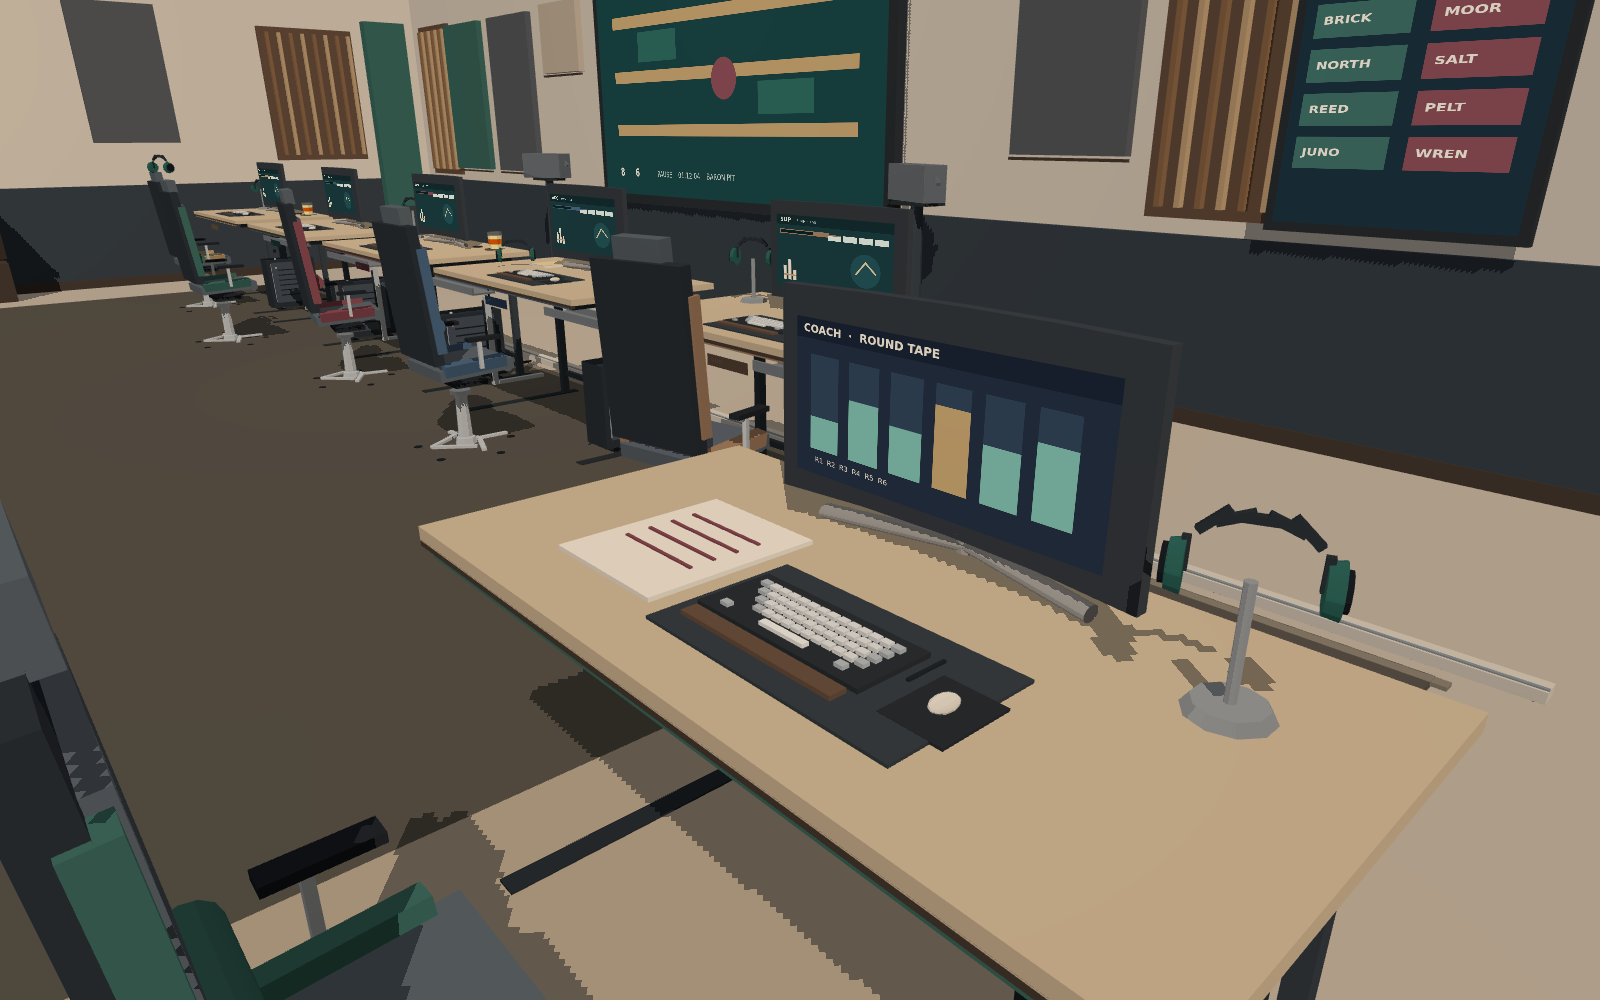
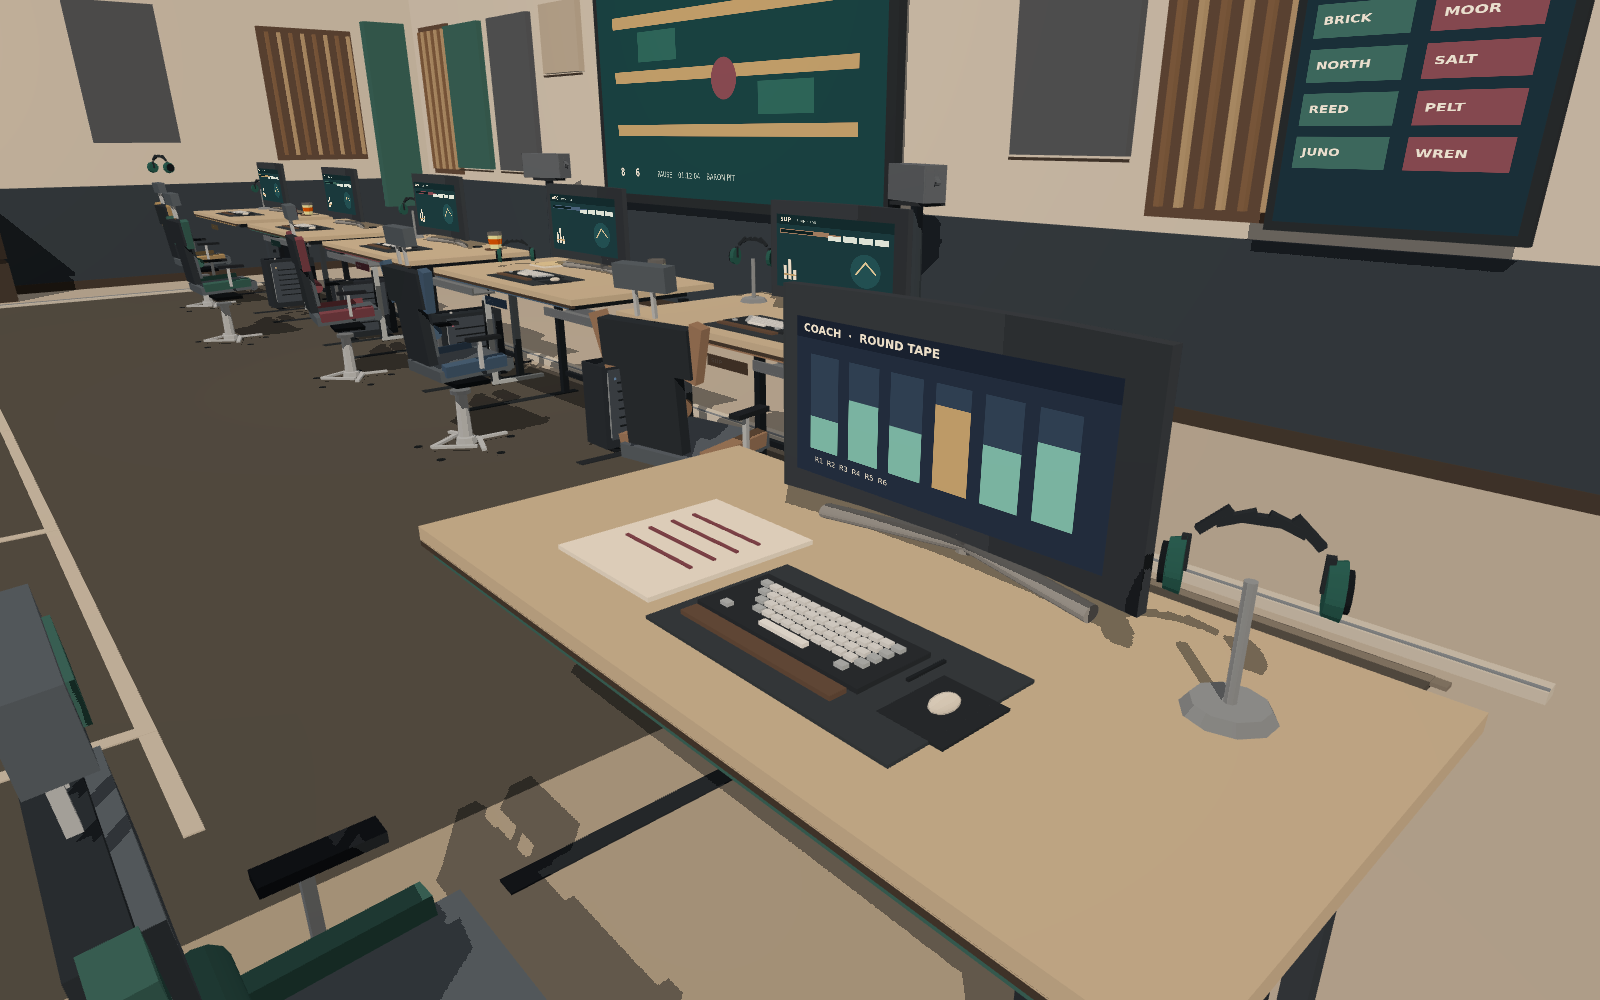
Shape the chair backs and mark the open pit floor.
Shoulder wings and a posted headrest break the rear silhouette. The daylight shadow map is fitted to the pit, and tape plus a floor raceway cross the carpet without closing the aisle.

diff --git a/experiments/indoor-20261113/esports-room/esports.js b/experiments/indoor-20261113/esports-room/esports.js
@@ -357,13 +357,20 @@ function gamingChair(g, x, z, yaw, accent, headsetOn) {
   back.position.set(0, 0.44, -0.15);
   back.rotation.x = -0.08;
   grp.add(back);
-  addBox(back, 0.38, 0.58, 0.045, shell, 0, 0.3, 0);
-  addBox(back, 0.3, 0.46, 0.028, cushion, 0, 0.28, 0.03);
-  addBox(back, 0.04, 0.44, 0.04, bolster, -0.18, 0.28, 0.02);
-  addBox(back, 0.04, 0.44, 0.04, bolster, 0.18, 0.28, 0.02);
-  const lumbar = addCyl(back, 0.035, 0.035, 0.24, bolster, 0, 0.16, 0.05, 12);
+  addBox(back, 0.24, 0.26, 0.04, shell, 0, 0.13, 0);
+  addBox(back, 0.38, 0.15, 0.046, shell, 0, 0.33, 0);
+  const leftWing = addBox(back, 0.05, 0.18, 0.038, bolster, -0.195, 0.33, 0.008);
+  leftWing.rotation.z = 0.26;
+  const rightWing = addBox(back, 0.05, 0.18, 0.038, bolster, 0.195, 0.33, 0.008);
+  rightWing.rotation.z = -0.26;
+  addBox(back, 0.2, 0.22, 0.024, cushion, 0, 0.14, 0.028);
+  addBox(back, 0.3, 0.11, 0.024, cushion, 0, 0.33, 0.03);
+  const lumbar = addCyl(back, 0.03, 0.03, 0.18, bolster, 0, 0.13, 0.046, 12);
   lumbar.rotation.z = Math.PI / 2;
-  addBox(back, 0.2, 0.075, 0.05, cushion, 0, 0.62, 0.02);
+  addBox(back, 0.012, 0.08, 0.012, metal, -0.038, 0.46, 0.008);
+  addBox(back, 0.012, 0.08, 0.012, metal, 0.038, 0.46, 0.008);
+  addBox(back, 0.22, 0.075, 0.048, cushion, 0, 0.54, 0.016);
+  addBox(back, 0.14, 0.04, 0.016, bolster, 0, 0.54, 0.038);
 
   for (const sx of [-1, 1]) {
     addBox(grp, 0.016, 0.12, 0.016, metal, sx * 0.22, 0.48, 0.02);
@@ -627,6 +634,32 @@ function raceway(g, layout) {
   for (let i = 0; i < 4; i++) {
     addBox(g, 0.03, 0.012, 0.012, toon('#1c2228'), -5.66 + i * 0.06, 0.07, z + 0.02);
   }
+  const frontZ = 1.16;
+  const sideX = -5.52;
+  const endX = Math.max(...xs) + 0.4;
+  addBox(g, 0.07, 0.032, frontZ - z, trunk, sideX, 0.024, (frontZ + z) / 2);
+  addBox(g, endX - sideX, 0.032, 0.07, trunk, (sideX + endX) / 2, 0.024, frontZ);
+  const seam = toon('#8d96a0');
+  const sideSeam = addBox(g, 0.012, 0.006, frontZ - z - 0.04, seam, sideX, 0.042, (frontZ + z) / 2);
+  sideSeam.castShadow = false;
+  const frontSeam = addBox(g, endX - sideX - 0.04, 0.006, 0.012, seam, (sideX + endX) / 2, 0.042, frontZ);
+  frontSeam.castShadow = false;
+  addBox(g, 0.11, 0.018, 0.09, toon('#3c4650'), sideX, 0.044, 0.35);
+  addBox(g, 0.12, 0.018, 0.09, toon('#3c4650'), 0.9, 0.044, frontZ);
+}
+
+function pitMarks(g, layout) {
+  const xs = layout.build.stations.map((st) => st.x);
+  const x0 = Math.min(...xs) - 0.5;
+  const x1 = Math.max(...xs) + 0.5;
+  const mid = (x0 + x1) / 2;
+  const tape = toon('#d4cbbd');
+  for (const z of [0.18, 0.72]) {
+    quiet(addBox(g, x1 - x0, 0.004, 0.04, tape, mid, 0.026, z));
+  }
+  for (const x of xs) {
+    quiet(addBox(g, 0.045, 0.004, 0.58, tape, x, 0.027, 0.45));
+  }
 }
 
 function speakerStands(g) {
@@ -662,6 +695,7 @@ function makeProcedural(layout) {
   credenza(g, b.credenza);
   acoustic(g, layout);
   raceway(g, layout);
+  pitMarks(g, layout);
   speakerStands(g);
   foliage(g, b.pot.x, b.pot.z);
   shelfDressing(g);

diff --git a/experiments/indoor-20261113/esports-room/scene_lib.js b/experiments/indoor-20261113/esports-room/scene_lib.js
@@ -220,15 +220,17 @@ export async function boot(opts) {
   const key = new THREE.DirectionalLight(keySpec.color, keySpec.intensity);
   key.position.set(...keySpec.position);
   key.castShadow = true;
-  key.shadow.mapSize.set(2048, 2048);
-  key.shadow.camera.near = 0.5;
-  key.shadow.camera.far = 40;
-  key.shadow.camera.left = -12;
-  key.shadow.camera.right = 12;
-  key.shadow.camera.top = 12;
-  key.shadow.camera.bottom = -12;
-  key.shadow.bias = -0.00025;
-  key.shadow.normalBias = 0.04;
+  key.target.position.set(0.2, 0.7, -1.1);
+  scene.add(key.target);
+  key.shadow.mapSize.set(8192, 8192);
+  key.shadow.camera.near = 4;
+  key.shadow.camera.far = 20;
+  key.shadow.camera.left = -7.4;
+  key.shadow.camera.right = 6.3;
+  key.shadow.camera.top = 6.0;
+  key.shadow.camera.bottom = -5.1;
+  key.shadow.bias = -0.00035;
+  key.shadow.normalBias = 0.02;
   scene.add(key);
   const fillSpec = layout.lights?.fill || { color: 0xc9d4e0, intensity: 0.4, position: [-6, 4.5, 2] };
   const fill = new THREE.DirectionalLight(fillSpec.color, fillSpec.intensity);

diff --git a/experiments/indoor-20261113/esports-room/QA.md b/experiments/indoor-20261113/esports-room/QA.md
@@ -27,16 +27,16 @@ node experiments/indoor-20261113/esports-room/tools/shoot.mjs
 
 | shot | bytes | mode | console errors | failed requests |
 | --- | ---: | --- | ---: | ---: |
-| `shots/toon_default.png` | 187169 | TOON | 0 | 0 |
-| `shots/toon_corner.png` | 218406 | TOON | 0 | 0 |
-| `shots/toon_close.png` | 173005 | TOON | 0 | 0 |
-| `shots/unlit_default.png` | 97484 | UNLIT | 0 | 0 |
+| `shots/toon_default.png` | 193741 | TOON | 0 | 0 |
+| `shots/toon_corner.png` | 224272 | TOON | 0 | 0 |
+| `shots/toon_close.png` | 179232 | TOON | 0 | 0 |
+| `shots/unlit_default.png` | 103941 | UNLIT | 0 | 0 |
 
 Favicon 404s are ignored. Scene status reached `ready`. GLB loads reported none in `window.__failed`.
 
 What the frames show:
 
-- Default: five high-back chairs face the monitors, replay reads NORTH PIT / 14:22, draft board is on the right, felt panels and wood slats flank the wall, and the coach desk corner with the round notes sits in the near right. The floor in front of the row is the dark pit carpet.
+- Default: five chairs face the monitors. From behind, each back is a narrow waist, shoulder wings, and a separate headrest. Tape ticks and the near raceway mark the carpet. Replay reads NORTH PIT / 14:22. The coach desk corner is at the near right.
 - Corner: coach monitor reads COACH · ROUND TAPE. Keyboard rows, mouse, headset stand, and the chair's teal front bolster are on the sitter side. The player row is behind.
 - Close: MID reads SCRIM · LIVE. The red bolster, bucket seat, and armrest face that screen. The keyboard is staggered key rows, not a handful of blocks. The tower front is vented.
 - Unlit: same default camera, flat basic materials, no toon steps. Replay and station screens still draw from their maps.

diff --git a/experiments/indoor-20261113/esports-room/refs/GAP.md b/experiments/indoor-20261113/esports-room/refs/GAP.md
@@ -21,5 +21,6 @@ Known limits:
 - The pendant's stem is the asset's own. It does not grow a new cord.
 - Cable "management" is a channel and a spine, not a braided loom.
 - Screens do not animate. There is no bloom pass.
-- The default frame keeps all five stations and the replay readable. The coach enters as the near desk corner and the round notes. The full coach chair, keyboard, and round-tape monitor are the corner shot.
-- Hard toon still facets the chair and the monitor arm. The arm is the curved-monitor GLB, not a generated stand. The chair is one shell now, not a stack of loose boards, and it is still not a soft product render.
+- From behind, the back is a narrow lumbar, a wider shoulder yoke with short wings, and a headrest on two posts. It is still hard-edged toon, not a stitched product chair.
+- The daylight shadow is an 8192 hard map fitted to the pit. The old block fringe on the carpet is gone. A hard edge is still a hard edge in the close shot; it is not a soft penumbra.
+- The open carpet carries tape ticks at each station and a floor raceway along the left and the near edge. The walk between the chairs and that raceway stays open. The default frame still shows a lot of that floor, now marked.
